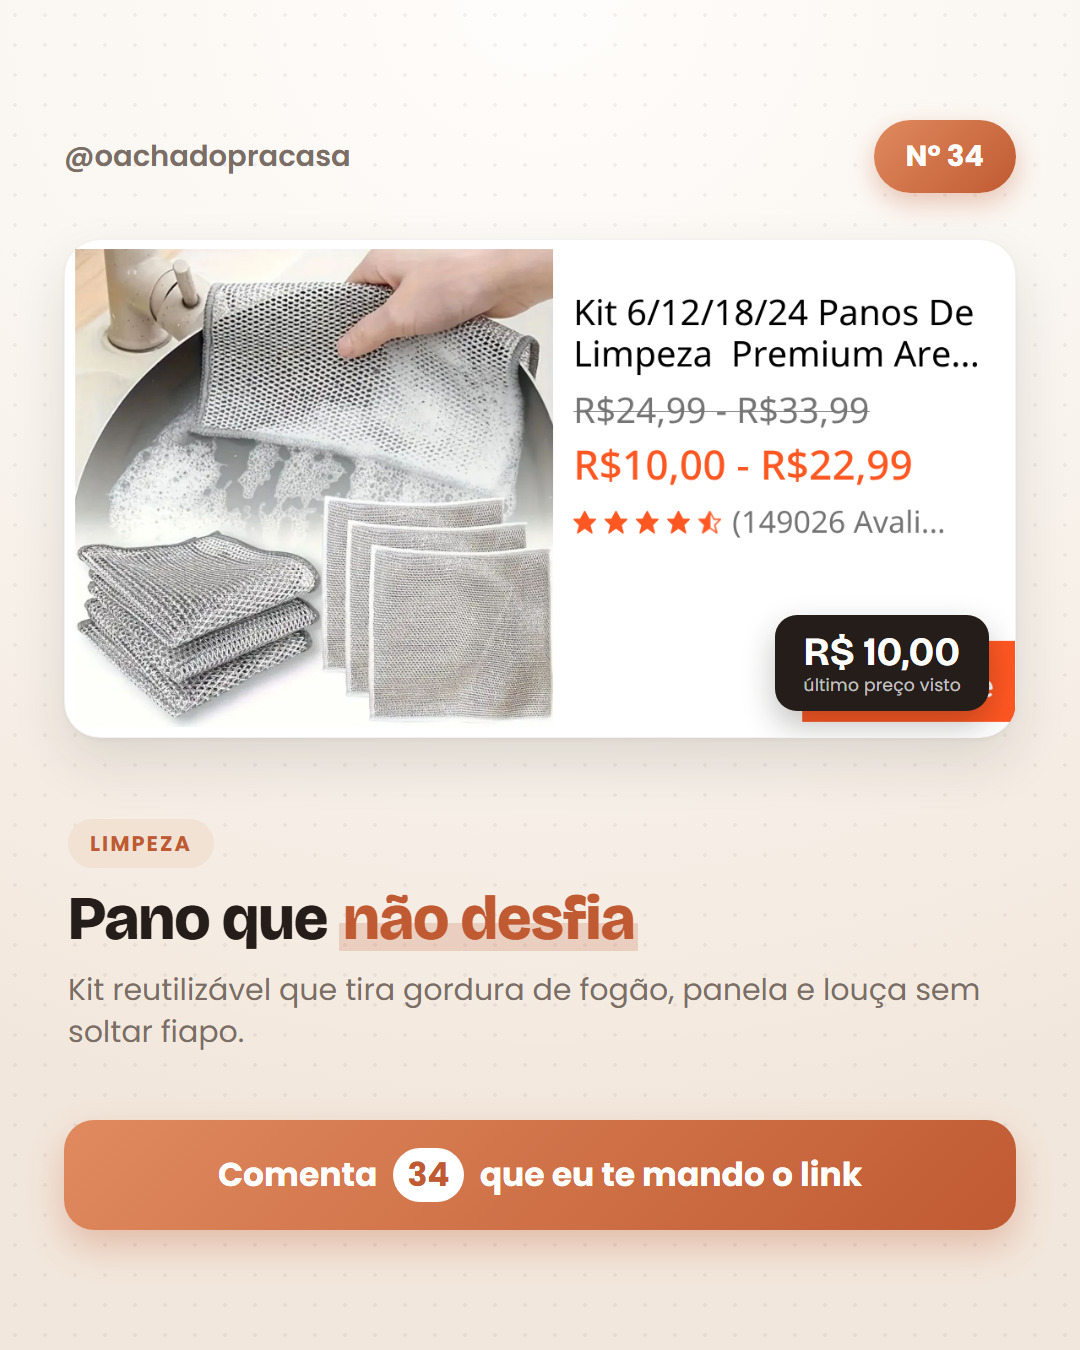
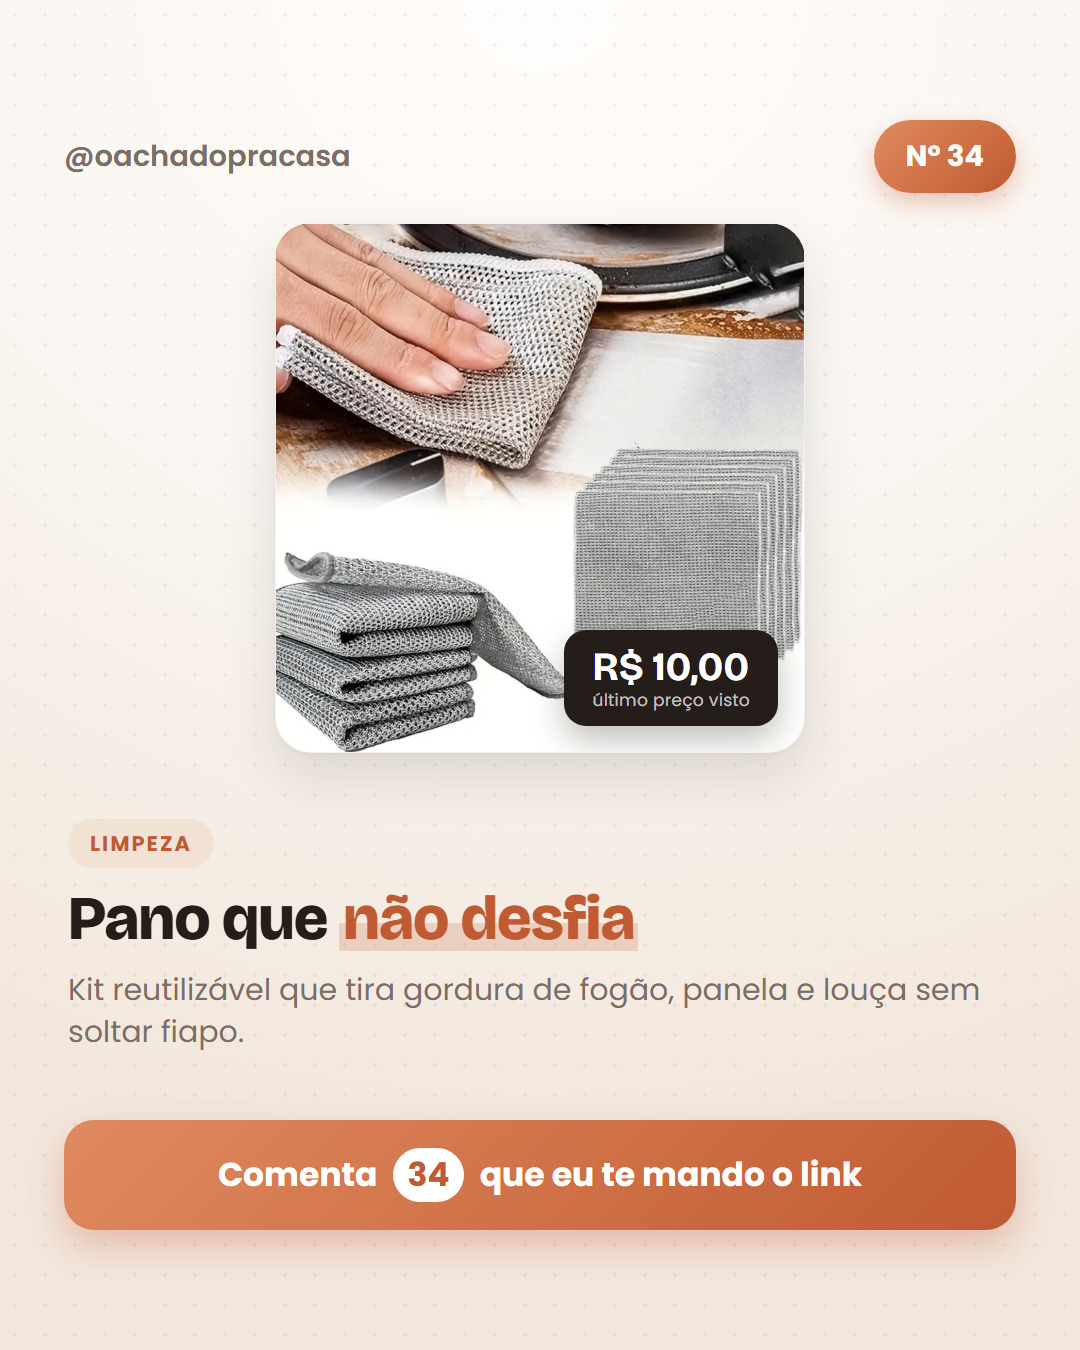
Atualiza página (38 produto(s))

Changed region(s): [[0.0611, 0.1556, 0.9472, 0.56], [0.0917, 0.5289, 0.1222, 0.56]]

diff --git a/index.html b/index.html
@@ -147,7 +147,7 @@
 </div>
 
 <script>
-  const DADOS = {"categorias":{"cozinha":{"nome":"Cozinha","emoji":"🍳"},"banheiro":{"nome":"Banheiro","emoji":"🛁"},"quarto":{"nome":"Quarto","emoji":"🛏"},"sala":{"nome":"Sala","emoji":"🛋"},"lavanderia":{"nome":"Lavanderia","emoji":"🧺"},"organizacao":{"nome":"Organização","emoji":"📦"},"limpeza":{"nome":"Limpeza","emoji":"🧹"}},"lojas":{"shopee":"Shopee","mercadolivre":"Mercado Livre"},"produtos":[{"id":38,"nome":"Kit 4 Toalhas de Banho Gigantes","loja":"mercadolivre","categoria":"banheiro","link":"https://meli.la/1pEJjN4","imagem":"https://http2.mlstatic.com/D_NQ_NP_655993-MLA112117491538_062026-O.webp","preco":76.99},{"id":37,"nome":"Varal Inox Suspenso com 40 Prendedores","loja":"mercadolivre","categoria":"lavanderia","link":"https://meli.la/2L4gpu5","imagem":"https://http2.mlstatic.com/D_NQ_NP_684225-MLA108361334797_032026-O.webp","preco":27.29},{"id":36,"nome":"Lixeira Automática com Sensor 16L","loja":"mercadolivre","categoria":"limpeza","link":"https://meli.la/1Q3jDVT","imagem":"https://http2.mlstatic.com/D_NQ_NP_765803-MLA112010174337_052026-O.webp","preco":78.77},{"id":35,"nome":"Passadeira a Vapor Portátil","loja":"shopee","categoria":"lavanderia","link":"https://s.shopee.com.br/9peGVpeJWS","imagem":"https://down-br.img.susercontent.com/file/br-11134207-820md-mopi9poscy6dac","preco":59.96},{"id":34,"nome":"Kit Panos de Limpeza Premium","loja":"shopee","categoria":"limpeza","link":"https://s.shopee.com.br/9V1Q7DfaCQ","imagem":"https://down-br.img.susercontent.com/file/promo-dim-0100d6c51b2a58cf461a135217849cab109c","preco":10},{"id":33,"nome":"Mesa de Cabeceira Retrô Compacta","loja":"shopee","categoria":"quarto","link":"https://s.shopee.com.br/AKaX6kcPVd","imagem":"https://down-br.img.susercontent.com/file/sg-11134201-7rd6x-luv5vclgwaxb45","preco":29.9},{"id":32,"nome":"Organizador Prateleira Acrílico","loja":"shopee","categoria":"banheiro","link":"https://s.shopee.com.br/9zxgi8dgBb","imagem":"https://down-br.img.susercontent.com/file/sg-11134201-81zwr-mieih5tm8i6b73","preco":22.99},{"id":31,"nome":"Toalha de Cabelo em Microfibra","loja":"shopee","categoria":"banheiro","link":"https://s.shopee.com.br/7AdVKvoSvg","imagem":"https://down-br.img.susercontent.com/file/br-11134201-820mh-mqx8siswqfb978","preco":10.99},{"id":30,"nome":"Kit 3 Toalhas de Banho 100% Algodão","loja":"shopee","categoria":"banheiro","link":"https://s.shopee.com.br/7VGLjXnCFq","imagem":"https://down-br.img.susercontent.com/file/br-11134207-820lk-mnvvbe3s6tq96f","preco":41.99},{"id":29,"nome":"Aromatizador e Umidificador de Ambiente","loja":"shopee","categoria":"sala","link":"https://s.shopee.com.br/8V8svNjOE4","imagem":"https://down-br.img.susercontent.com/file/br-11134207-7r98o-m15dorxzbhouf8","preco":29.66},{"id":28,"nome":"Arara Multiuso 4 Andares com Sapateira","loja":"shopee","categoria":"quarto","link":"https://s.shopee.com.br/6q0ewJpjbe","imagem":"https://down-br.img.susercontent.com/file/sg-11134201-7req6-m8dk5gglfv7k20","preco":34.99},{"id":27,"nome":"Espelho Orgânico Grande com LED","loja":"shopee","categoria":"quarto","link":"https://s.shopee.com.br/9059WIhUDF","imagem":"https://down-br.img.susercontent.com/file/br-11134207-820ll-mslrmo2fppfq1b","preco":78.99},{"id":26,"nome":"Lava-Roupas Omo Líquido 7L","loja":"shopee","categoria":"lavanderia","link":"https://s.shopee.com.br/AUtxIfY8Nb","imagem":"https://down-br.img.susercontent.com/file/sg-11134201-7rau5-mau62igmy63506","preco":99.89},{"id":25,"nome":"Kit 12 Potes Herméticos 800ml","loja":"shopee","categoria":"organizacao","link":"https://s.shopee.com.br/20vPB34UdA","imagem":"https://down-br.img.susercontent.com/file/br-11134207-820lc-mlziaikq0bgk4a","preco":37.49},{"id":24,"nome":"Jogo 6 Copos Diamond de Vidro","loja":"shopee","categoria":"cozinha","link":"https://s.shopee.com.br/80CcK4heS8","imagem":"https://down-br.img.susercontent.com/file/promo-dim-0100c3fd7c69a822085cb58fea0c11dc36f6","preco":26.95},{"id":23,"nome":"Jogo de Lençol 400 Fios Micropercal","loja":"shopee","categoria":"quarto","link":"https://s.shopee.com.br/9zxghka2OS","imagem":"https://down-br.img.susercontent.com/file/promo-dim-0100353d6e7087420f747e0ae8858fabb7ba","preco":13.7},{"id":22,"nome":"Jogo 6 Taças Diamond de Vidro","loja":"shopee","categoria":"cozinha","link":"https://s.shopee.com.br/1AKnNC6gq","imagem":"https://down-br.img.susercontent.com/file/br-11134207-820lg-mr201woae6thda","preco":35.99},{"id":21,"nome":"Jogo de Panelas 10 Peças Antiaderente","loja":"shopee","categoria":"cozinha","link":"https://s.shopee.com.br/8AW2WNh17B","imagem":"https://down-br.img.susercontent.com/file/br-11134207-820m6-ms42s3kelced28","preco":177.9},{"id":20,"nome":"Projetor Portátil HY300 Wi-Fi","loja":"shopee","categoria":"sala","link":"https://s.shopee.com.br/9KhzuWcZkG","imagem":"https://down-br.img.susercontent.com/file/sg-11134201-8262y-ml8364ncclj703","preco":185.99},{"id":19,"nome":"Percarbonato Tira Manchas","loja":"shopee","categoria":"lavanderia","link":"https://s.shopee.com.br/2LYFZf3DxG","imagem":"https://down-br.img.susercontent.com/file/promo-dim-0100fddd0ad2494edc696c8b86f052f37e2e","preco":16.9},{"id":18,"nome":"Capa de Colchão Impermeável","loja":"shopee","categoria":"quarto","link":"https://s.shopee.com.br/1gIYmR5lJ4","imagem":"https://down-br.img.susercontent.com/file/br-11134207-7r98o-ltwjwwwq5uudff","preco":13.9},{"id":17,"nome":"Porta Frios Duplo para Geladeira","loja":"shopee","categoria":"cozinha","link":"https://s.shopee.com.br/2Vrfly2acJ","imagem":"https://down-br.img.susercontent.com/file/br-11134207-820l9-ml6ctmoc7ojo37","preco":17.89},{"id":16,"nome":"Torneira com Chuveiro Giratório 360º","loja":"shopee","categoria":"cozinha","link":"https://s.shopee.com.br/1LfiNp71yy","imagem":"https://down-br.img.susercontent.com/file/sg-11134201-825b6-ms1aw5eyy6m802","preco":24.99},{"id":15,"nome":"Organizador de Maquiagem Giratório 360º","loja":"shopee","categoria":"banheiro","link":"https://s.shopee.com.br/AKaX6MYliY","imagem":"https://down-br.img.susercontent.com/file/br-11134207-7r98o-m415wji061xdd5","preco":39.9},{"id":14,"nome":"Kit 24 Talheres Inox Dourados","loja":"shopee","categoria":"cozinha","link":"https://s.shopee.com.br/1Vz8a86Oe1","imagem":"https://down-br.img.susercontent.com/file/br-11134207-81ztl-mklyprfdk2rm83","preco":45.88},{"id":13,"nome":"Varal de Chão Dobrável 3 Andares","loja":"shopee","categoria":"lavanderia","link":"https://s.shopee.com.br/8pljJbeTlN","imagem":"https://down-br.img.susercontent.com/file/br-11134207-7r98o-m7augbm6ixf693","preco":91.9},{"id":12,"nome":"Papa-Bolinhas Elétrico Recarregável","loja":"shopee","categoria":"lavanderia","link":"https://s.shopee.com.br/9V1PxTuv3W","imagem":"https://down-br.img.susercontent.com/file/sg-11134201-821da-mh9eb9k11r0p48","preco":21.99},{"id":11,"nome":"Aspirador Vertical Britânia 2 em 1","loja":"shopee","categoria":"limpeza","link":"https://s.shopee.com.br/8fSI7Y8CUL","imagem":"https://down-br.img.susercontent.com/file/sg-11134201-8257t-msk294deek9517","preco":149.9},{"id":10,"nome":"Cafeteira Philco 15 Cafezinhos","loja":"shopee","categoria":"cozinha","link":"https://s.shopee.com.br/8pliJr7Z9M","imagem":"https://down-br.img.susercontent.com/file/sg-11134201-8258o-msk2369yxddtf4","preco":99.9},{"id":9,"nome":"Mini Liquidificador Portátil USB","loja":"shopee","categoria":"cozinha","link":"https://s.shopee.com.br/9fKpJO4OSV","imagem":"https://down-br.img.susercontent.com/file/br-11134207-7r98o-m326ai6rx4gl9c","preco":22.04},{"id":8,"nome":"Espremedor de Frutas Elétrico USB","loja":"shopee","categoria":"cozinha","link":"https://s.shopee.com.br/9peFVh3l7W","imagem":"https://down-br.img.susercontent.com/file/sg-11134201-8259f-msgkvfvn2sju02","preco":61.69},{"id":7,"nome":"Chaleira Elétrica Inox com Desligamento Automático","loja":"shopee","categoria":"cozinha","link":"https://s.shopee.com.br/9Khyum5f8P","imagem":"https://down-br.img.susercontent.com/file/br-11134207-820lc-mreq8encuolh62","preco":43.9},{"id":6,"nome":"Cozedor de Ovos Elétrico","loja":"shopee","categoria":"cozinha","link":"https://s.shopee.com.br/9V1P7551nQ","imagem":"https://down-br.img.susercontent.com/file/br-11134207-81z1k-mfytb2po8gzk07","preco":29.98},{"id":5,"nome":"Chaleira Elétrica Inox 1,8L","loja":"shopee","categoria":"cozinha","link":"https://s.shopee.com.br/AKaW6c1r6Z","imagem":"https://down-br.img.susercontent.com/file/br-11134207-820lg-mqfmutp6p53522","preco":44.59},{"id":4,"nome":"Chave T para Máquina de Lavar 10mm","loja":"shopee","categoria":"lavanderia","link":"https://s.shopee.com.br/AUtwIv1Dla","imagem":"https://down-br.img.susercontent.com/file/promo-dim-0100c60c95fde39beb972ee748354e938778","preco":23.74},{"id":3,"nome":"Picador e Processador Elétrico de Alimentos","loja":"shopee","categoria":"cozinha","link":"https://s.shopee.com.br/9zxfi037mT","imagem":"https://down-br.img.susercontent.com/file/sg-11134201-8262e-mjejrub4w35z78","preco":69.98},{"id":2,"nome":"Mixer Batedor Elétrico 2 em 1","loja":"shopee","categoria":"cozinha","link":"https://s.shopee.com.br/AAH5uJ2URU","imagem":"https://down-br.img.susercontent.com/file/sg-11134201-7rd48-lupf3z3a40mxf1","preco":18.99},{"id":1,"nome":"Omeleteira Agratto Mr Cheff Inox Redonda 127v / 220v","loja":"shopee","categoria":"cozinha","link":"https://s.shopee.com.br/1gIWFICgF0","imagem":"https://down-br.img.susercontent.com/file/br-11134207-820ll-mmc8h9uyaoee6b","preco":null}]};
+  const DADOS = {"categorias":{"cozinha":{"nome":"Cozinha","emoji":"🍳"},"banheiro":{"nome":"Banheiro","emoji":"🛁"},"quarto":{"nome":"Quarto","emoji":"🛏"},"sala":{"nome":"Sala","emoji":"🛋"},"lavanderia":{"nome":"Lavanderia","emoji":"🧺"},"organizacao":{"nome":"Organização","emoji":"📦"},"limpeza":{"nome":"Limpeza","emoji":"🧹"}},"lojas":{"shopee":"Shopee","mercadolivre":"Mercado Livre"},"produtos":[{"id":38,"nome":"Kit 4 Toalhas de Banho Gigantes","loja":"mercadolivre","categoria":"banheiro","link":"https://meli.la/1pEJjN4","imagem":"https://http2.mlstatic.com/D_NQ_NP_655993-MLA112117491538_062026-O.webp","preco":76.99},{"id":37,"nome":"Varal Inox Suspenso com 40 Prendedores","loja":"mercadolivre","categoria":"lavanderia","link":"https://meli.la/2L4gpu5","imagem":"https://http2.mlstatic.com/D_NQ_NP_684225-MLA108361334797_032026-O.webp","preco":27.29},{"id":36,"nome":"Lixeira Automática com Sensor 16L","loja":"mercadolivre","categoria":"limpeza","link":"https://meli.la/1Q3jDVT","imagem":"https://http2.mlstatic.com/D_NQ_NP_765803-MLA112010174337_052026-O.webp","preco":78.77},{"id":35,"nome":"Passadeira a Vapor Portátil","loja":"shopee","categoria":"lavanderia","link":"https://s.shopee.com.br/9peGVpeJWS","imagem":"https://down-br.img.susercontent.com/file/br-11134207-820md-mopi9poscy6dac","preco":59.96},{"id":34,"nome":"Kit Panos de Limpeza Premium","loja":"shopee","categoria":"limpeza","link":"https://s.shopee.com.br/9V1Q7DfaCQ","imagem":"https://down-br.img.susercontent.com/file/br-11134207-7r98o-mctxxpi1z6eqe5","preco":10},{"id":33,"nome":"Mesa de Cabeceira Retrô Compacta","loja":"shopee","categoria":"quarto","link":"https://s.shopee.com.br/AKaX6kcPVd","imagem":"https://down-br.img.susercontent.com/file/sg-11134201-7rd6x-luv5vclgwaxb45","preco":29.9},{"id":32,"nome":"Organizador Prateleira Acrílico","loja":"shopee","categoria":"banheiro","link":"https://s.shopee.com.br/9zxgi8dgBb","imagem":"https://down-br.img.susercontent.com/file/sg-11134201-81zwr-mieih5tm8i6b73","preco":22.99},{"id":31,"nome":"Toalha de Cabelo em Microfibra","loja":"shopee","categoria":"banheiro","link":"https://s.shopee.com.br/7AdVKvoSvg","imagem":"https://down-br.img.susercontent.com/file/br-11134201-820mh-mqx8siswqfb978","preco":10.99},{"id":30,"nome":"Kit 3 Toalhas de Banho 100% Algodão","loja":"shopee","categoria":"banheiro","link":"https://s.shopee.com.br/7VGLjXnCFq","imagem":"https://down-br.img.susercontent.com/file/br-11134207-820lk-mnvvbe3s6tq96f","preco":41.99},{"id":29,"nome":"Aromatizador e Umidificador de Ambiente","loja":"shopee","categoria":"sala","link":"https://s.shopee.com.br/8V8svNjOE4","imagem":"https://down-br.img.susercontent.com/file/br-11134207-7r98o-m15dorxzbhouf8","preco":29.66},{"id":28,"nome":"Arara Multiuso 4 Andares com Sapateira","loja":"shopee","categoria":"quarto","link":"https://s.shopee.com.br/6q0ewJpjbe","imagem":"https://down-br.img.susercontent.com/file/sg-11134201-7req6-m8dk5gglfv7k20","preco":34.99},{"id":27,"nome":"Espelho Orgânico Grande com LED","loja":"shopee","categoria":"quarto","link":"https://s.shopee.com.br/9059WIhUDF","imagem":"https://down-br.img.susercontent.com/file/br-11134207-820ll-mslrmo2fppfq1b","preco":78.99},{"id":26,"nome":"Lava-Roupas Omo Líquido 7L","loja":"shopee","categoria":"lavanderia","link":"https://s.shopee.com.br/AUtxIfY8Nb","imagem":"https://down-br.img.susercontent.com/file/sg-11134201-7rau5-mau62igmy63506","preco":99.89},{"id":25,"nome":"Kit 12 Potes Herméticos 800ml","loja":"shopee","categoria":"organizacao","link":"https://s.shopee.com.br/20vPB34UdA","imagem":"https://down-br.img.susercontent.com/file/br-11134207-820lc-mlziaikq0bgk4a","preco":37.49},{"id":24,"nome":"Jogo 6 Copos Diamond de Vidro","loja":"shopee","categoria":"cozinha","link":"https://s.shopee.com.br/80CcK4heS8","imagem":"https://down-br.img.susercontent.com/file/promo-dim-0100c3fd7c69a822085cb58fea0c11dc36f6","preco":26.95},{"id":23,"nome":"Jogo de Lençol 400 Fios Micropercal","loja":"shopee","categoria":"quarto","link":"https://s.shopee.com.br/9zxghka2OS","imagem":"https://down-br.img.susercontent.com/file/br-11134207-820ln-mo7pypmctxq9cb","preco":13.7},{"id":22,"nome":"Jogo 6 Taças Diamond de Vidro","loja":"shopee","categoria":"cozinha","link":"https://s.shopee.com.br/1AKnNC6gq","imagem":"https://down-br.img.susercontent.com/file/br-11134207-820lg-mr201woae6thda","preco":35.99},{"id":21,"nome":"Jogo de Panelas 10 Peças Antiaderente","loja":"shopee","categoria":"cozinha","link":"https://s.shopee.com.br/8AW2WNh17B","imagem":"https://down-br.img.susercontent.com/file/br-11134207-820m6-ms42s3kelced28","preco":177.9},{"id":20,"nome":"Projetor Portátil HY300 Wi-Fi","loja":"shopee","categoria":"sala","link":"https://s.shopee.com.br/9KhzuWcZkG","imagem":"https://down-br.img.susercontent.com/file/sg-11134201-8262y-ml8364ncclj703","preco":185.99},{"id":19,"nome":"Percarbonato Tira Manchas","loja":"shopee","categoria":"lavanderia","link":"https://s.shopee.com.br/2LYFZf3DxG","imagem":"https://down-br.img.susercontent.com/file/promo-dim-0100fddd0ad2494edc696c8b86f052f37e2e","preco":16.9},{"id":18,"nome":"Capa de Colchão Impermeável","loja":"shopee","categoria":"quarto","link":"https://s.shopee.com.br/1gIYmR5lJ4","imagem":"https://down-br.img.susercontent.com/file/br-11134207-7r98o-ltwjwwwq5uudff","preco":13.9},{"id":17,"nome":"Porta Frios Duplo para Geladeira","loja":"shopee","categoria":"cozinha","link":"https://s.shopee.com.br/2Vrfly2acJ","imagem":"https://down-br.img.susercontent.com/file/br-11134207-820l4-ml6ctmo8uvpi68","preco":17.89},{"id":16,"nome":"Torneira com Chuveiro Giratório 360º","loja":"shopee","categoria":"cozinha","link":"https://s.shopee.com.br/1LfiNp71yy","imagem":"https://down-br.img.susercontent.com/file/sg-11134201-825b6-ms1aw5eyy6m802","preco":24.99},{"id":15,"nome":"Organizador de Maquiagem Giratório 360º","loja":"shopee","categoria":"banheiro","link":"https://s.shopee.com.br/AKaX6MYliY","imagem":"https://down-br.img.susercontent.com/file/br-11134207-7r98o-m415wji061xdd5","preco":39.9},{"id":14,"nome":"Kit 24 Talheres Inox Dourados","loja":"shopee","categoria":"cozinha","link":"https://s.shopee.com.br/1Vz8a86Oe1","imagem":"https://down-br.img.susercontent.com/file/br-11134207-81ztl-mklyprfdk2rm83","preco":45.88},{"id":13,"nome":"Varal de Chão Dobrável 3 Andares","loja":"shopee","categoria":"lavanderia","link":"https://s.shopee.com.br/8pljJbeTlN","imagem":"https://down-br.img.susercontent.com/file/br-11134207-7r98o-m7augbm6ixf693","preco":91.9},{"id":12,"nome":"Papa-Bolinhas Elétrico Recarregável","loja":"shopee","categoria":"lavanderia","link":"https://s.shopee.com.br/9V1PxTuv3W","imagem":"https://down-br.img.susercontent.com/file/sg-11134201-821da-mh9eb9k11r0p48","preco":21.99},{"id":11,"nome":"Aspirador Vertical Britânia 2 em 1","loja":"shopee","categoria":"limpeza","link":"https://s.shopee.com.br/8fSI7Y8CUL","imagem":"https://down-br.img.susercontent.com/file/sg-11134201-8257t-msk294deek9517","preco":149.9},{"id":10,"nome":"Cafeteira Philco 15 Cafezinhos","loja":"shopee","categoria":"cozinha","link":"https://s.shopee.com.br/8pliJr7Z9M","imagem":"https://down-br.img.susercontent.com/file/sg-11134201-8258o-msk2369yxddtf4","preco":99.9},{"id":9,"nome":"Mini Liquidificador Portátil USB","loja":"shopee","categoria":"cozinha","link":"https://s.shopee.com.br/9fKpJO4OSV","imagem":"https://down-br.img.susercontent.com/file/br-11134207-7r98o-m326ai6rx4gl9c","preco":22.04},{"id":8,"nome":"Espremedor de Frutas Elétrico USB","loja":"shopee","categoria":"cozinha","link":"https://s.shopee.com.br/9peFVh3l7W","imagem":"https://down-br.img.susercontent.com/file/sg-11134201-8259f-msgkvfvn2sju02","preco":61.69},{"id":7,"nome":"Chaleira Elétrica Inox com Desligamento Automático","loja":"shopee","categoria":"cozinha","link":"https://s.shopee.com.br/9Khyum5f8P","imagem":"https://down-br.img.susercontent.com/file/br-11134207-820lc-mreq8encuolh62","preco":43.9},{"id":6,"nome":"Cozedor de Ovos Elétrico","loja":"shopee","categoria":"cozinha","link":"https://s.shopee.com.br/9V1P7551nQ","imagem":"https://down-br.img.susercontent.com/file/br-11134207-81z1k-mfytb2po8gzk07","preco":29.98},{"id":5,"nome":"Chaleira Elétrica Inox 1,8L","loja":"shopee","categoria":"cozinha","link":"https://s.shopee.com.br/AKaW6c1r6Z","imagem":"https://down-br.img.susercontent.com/file/br-11134207-820lg-mqfmutp6p53522","preco":44.59},{"id":4,"nome":"Chave T para Máquina de Lavar 10mm","loja":"shopee","categoria":"lavanderia","link":"https://s.shopee.com.br/AUtwIv1Dla","imagem":"https://down-br.img.susercontent.com/file/promo-dim-0100c60c95fde39beb972ee748354e938778","preco":23.74},{"id":3,"nome":"Picador e Processador Elétrico de Alimentos","loja":"shopee","categoria":"cozinha","link":"https://s.shopee.com.br/9zxfi037mT","imagem":"https://down-br.img.susercontent.com/file/sg-11134201-8262e-mjejrub4w35z78","preco":69.98},{"id":2,"nome":"Mixer Batedor Elétrico 2 em 1","loja":"shopee","categoria":"cozinha","link":"https://s.shopee.com.br/AAH5uJ2URU","imagem":"https://down-br.img.susercontent.com/file/sg-11134201-7rd48-lupf3z3a40mxf1","preco":18.99},{"id":1,"nome":"Omeleteira Agratto Mr Cheff Inox Redonda 127v / 220v","loja":"shopee","categoria":"cozinha","link":"https://s.shopee.com.br/1gIWFICgF0","imagem":"https://down-br.img.susercontent.com/file/br-11134207-820ll-mmc8h9uyaoee6b","preco":null}]};
   const grade = document.getElementById('grade');
   const busca = document.getElementById('busca');
   const chips = document.getElementById('chips');
